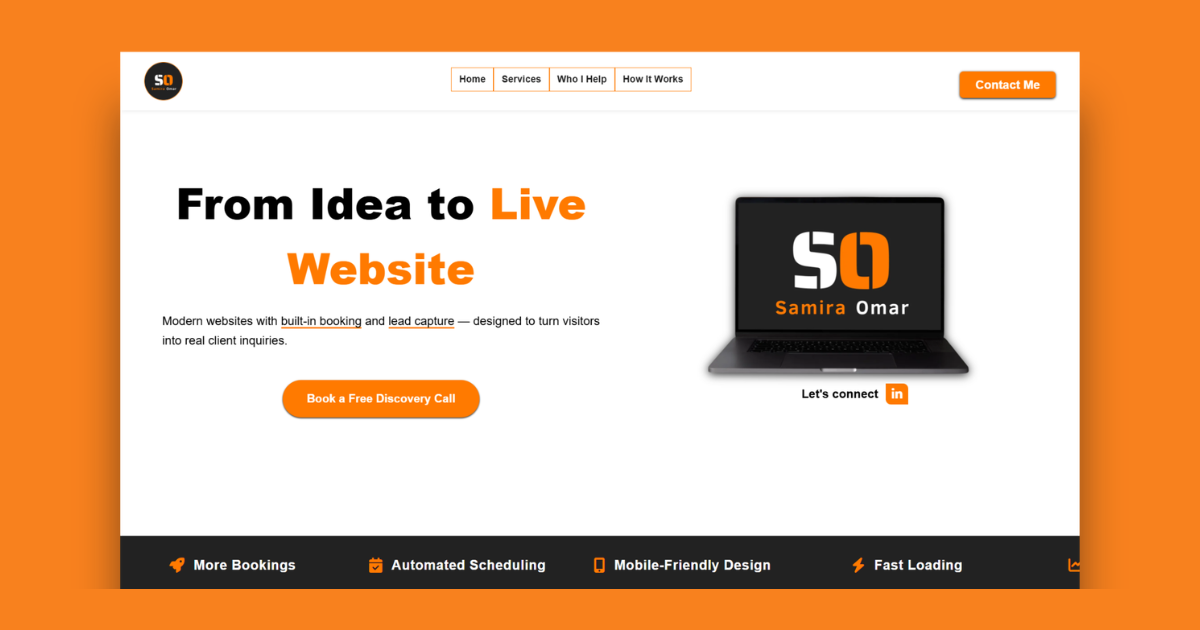
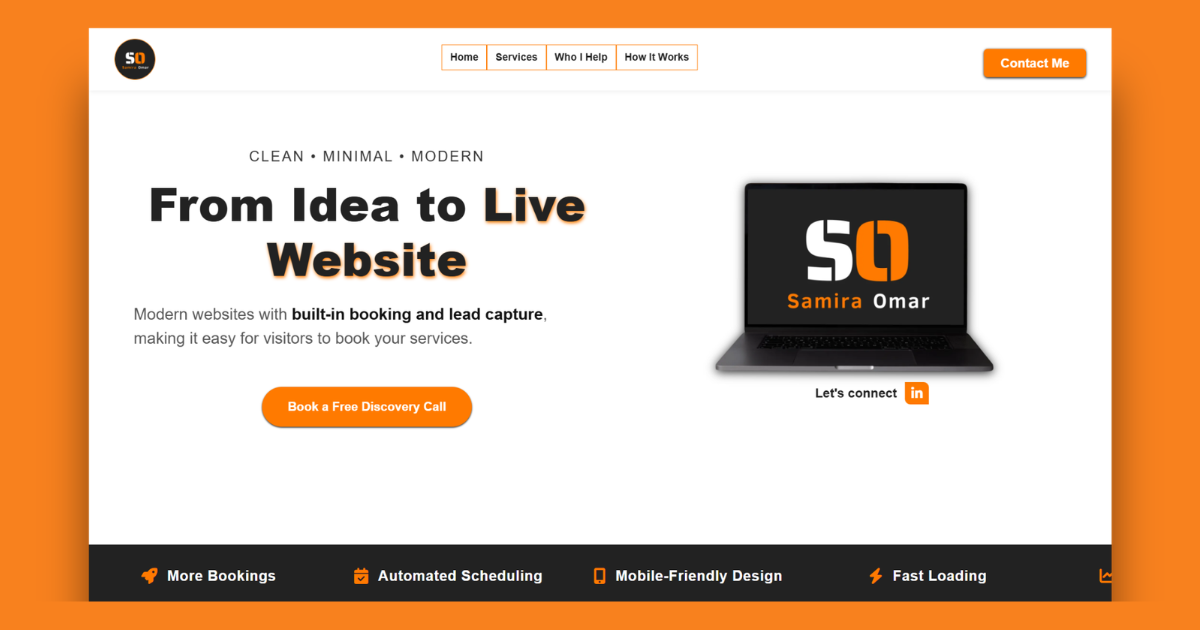
updated index.php, photo/preview

diff --git a/index.php b/index.php
@@ -15,7 +15,7 @@
   <meta property="og:title" content="Modern Websites with Built-In Booking">
   <meta property="og:description"
     content="Get a website that automatically books clients and captures leads for your service business.">
-  <meta property="og:image" content="https://samiraomar.com/photo/preview2.png">
+  <meta property="og:image" content="https://samiraomar.com/photo/preview.png">
   <meta property="og:url" content="https://samiraomar.com">
   <meta property="og:type" content="website">
 
